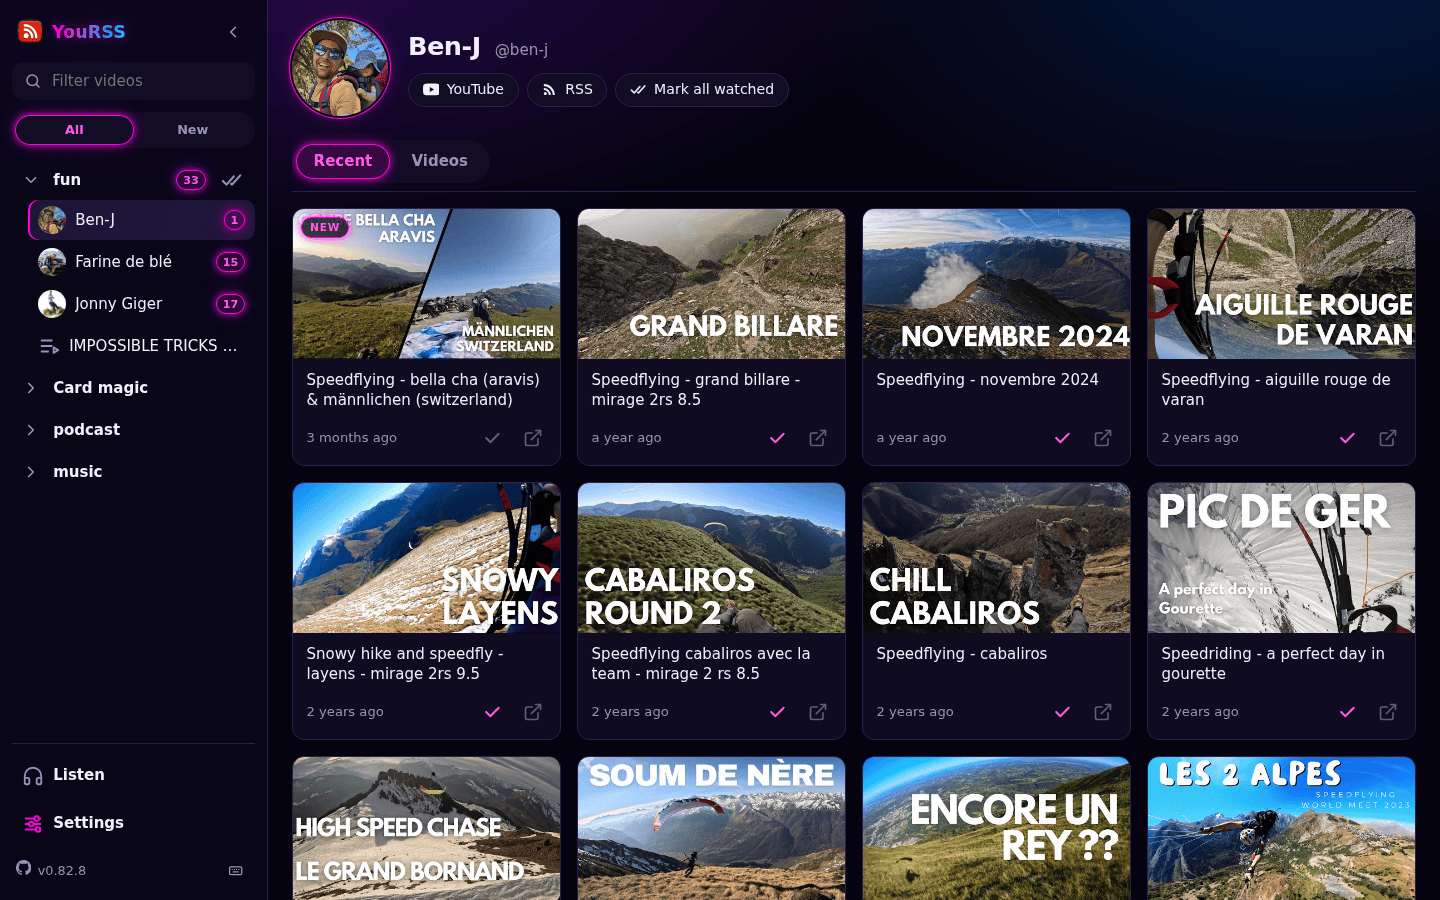
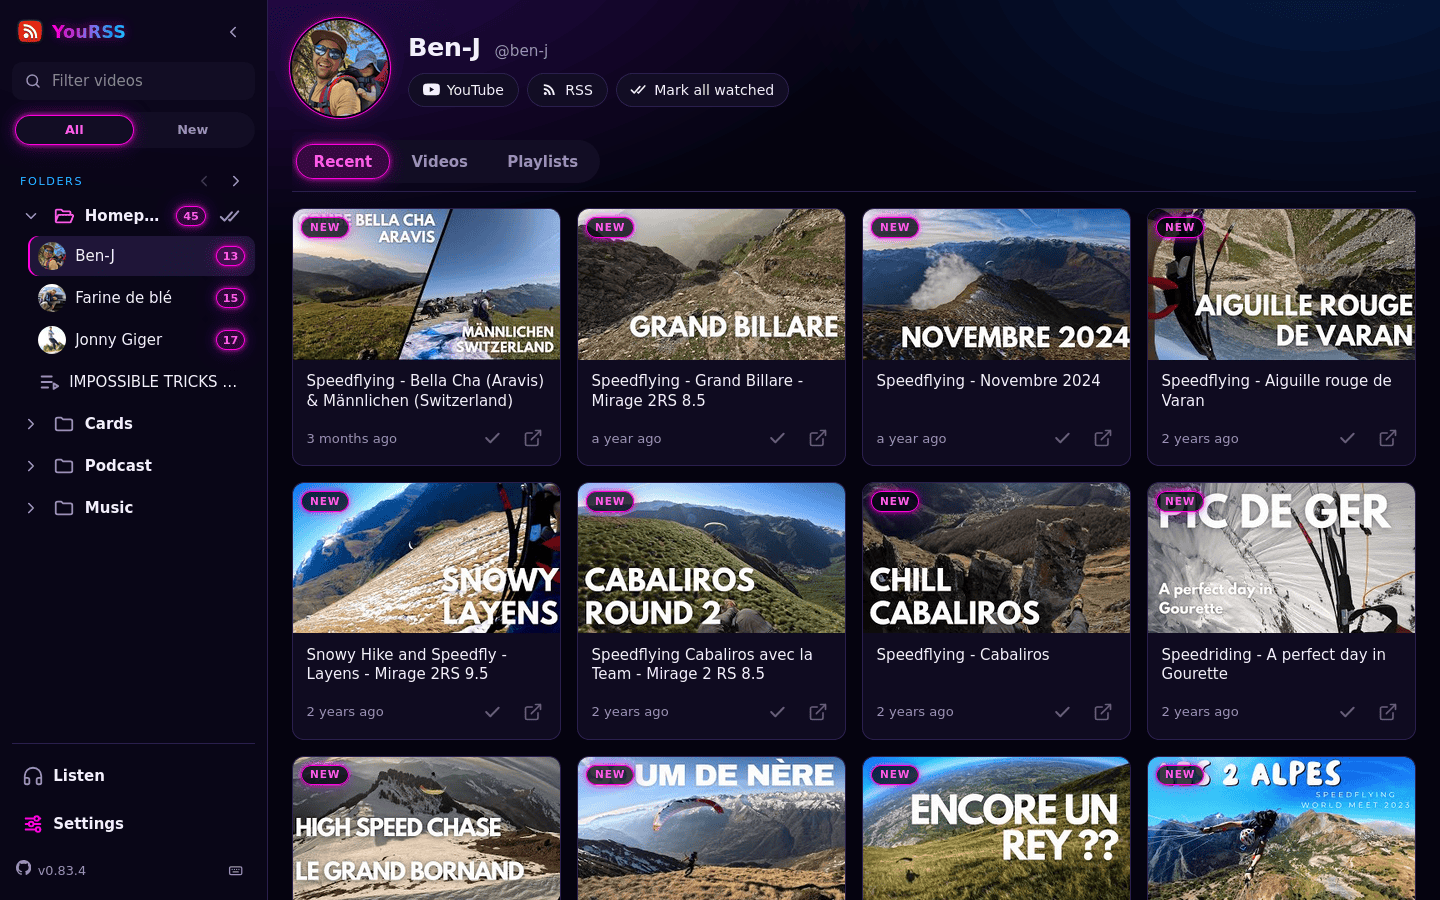
📝 README: refreshed screenshots (Thumbnail setting, channel tabs), CLAUDE.md: htmx served by the instance

diff --git a/CLAUDE.md b/CLAUDE.md
@@ -37,8 +37,8 @@ media.
 ## Stack
 
 Python 3.13, FastAPI, Jinja2, Pydantic (settings, models, `pydantic-xml` for the feeds),
-`rapid-api-client` for every HTTP call, loguru. Front: htmx, one CSS file, five JavaScript modules
-(ES modules resolved by an import map, no build step).
+`rapid-api-client` for every HTTP call (one shared httpx client over HTTP/2), loguru. Front: htmx served
+by the instance, one CSS file, five JavaScript modules (ES modules resolved by an import map, no build step).
 
 ## Layout
 
@@ -49,7 +49,7 @@ Python 3.13, FastAPI, Jinja2, Pydantic (settings, models, `pydantic-xml` for the
 | `src/yourss/warmup.py` | the background refresh of every page, started by the `lifespan` of the application |
 | `src/yourss/routers/` | pages (`web`), htmx fragments (`htmx`), `api` |
 | `src/yourss/youtube/` | HTTP client, RSS feed models, video and channel models |
-| `src/yourss/templates/`, `static/` | Jinja templates, `yourss.css`, the `yourss*.js` modules, icons |
+| `src/yourss/templates/`, `static/` | Jinja templates, `yourss.css`, the `yourss*.js` modules, `htmx-<version>.min.js` (bumped by hand), icons |
 | `charts/yourss/` | Helm chart, one value per setting, same defaults as the application |
 | `samples/users.yaml` | example of a pages and users file, also used by the development `.env` |
 | `tests/` | pytest suite, its RSS fixtures are in `tests/data/` |
@@ -76,7 +76,9 @@ The `Justfile` is the interface of the project:
 - Front-end: every command is a `[data-action]` element handled in `yourss.js` (the entry module;
   `yourss-core.js`, `yourss-watched.js`, `yourss-player.js` and `yourss-listen.js` are its imports), CSS classes are
   prefixed `yourss-`, themes are sets of CSS variables selected by `<html data-theme>`. Anything
-  a visitor can tune is a browser setting, not a server one.
+  a visitor can tune is a browser setting, not a server one. The only inline script, in the head of
+  `base.jinja-html`, applies what must act before first paint: the theme, and the Frame thumbnails
+  swapped before the lazy images load.
 - Front-end state lives in two places only: the URL (what is shown, bookmarkable) and
   `localStorage` (what belongs to the visitor). Everything else is read from the DOM when needed,
   never mirrored in a script variable that has to be kept in sync. A copy made for a reason (the
